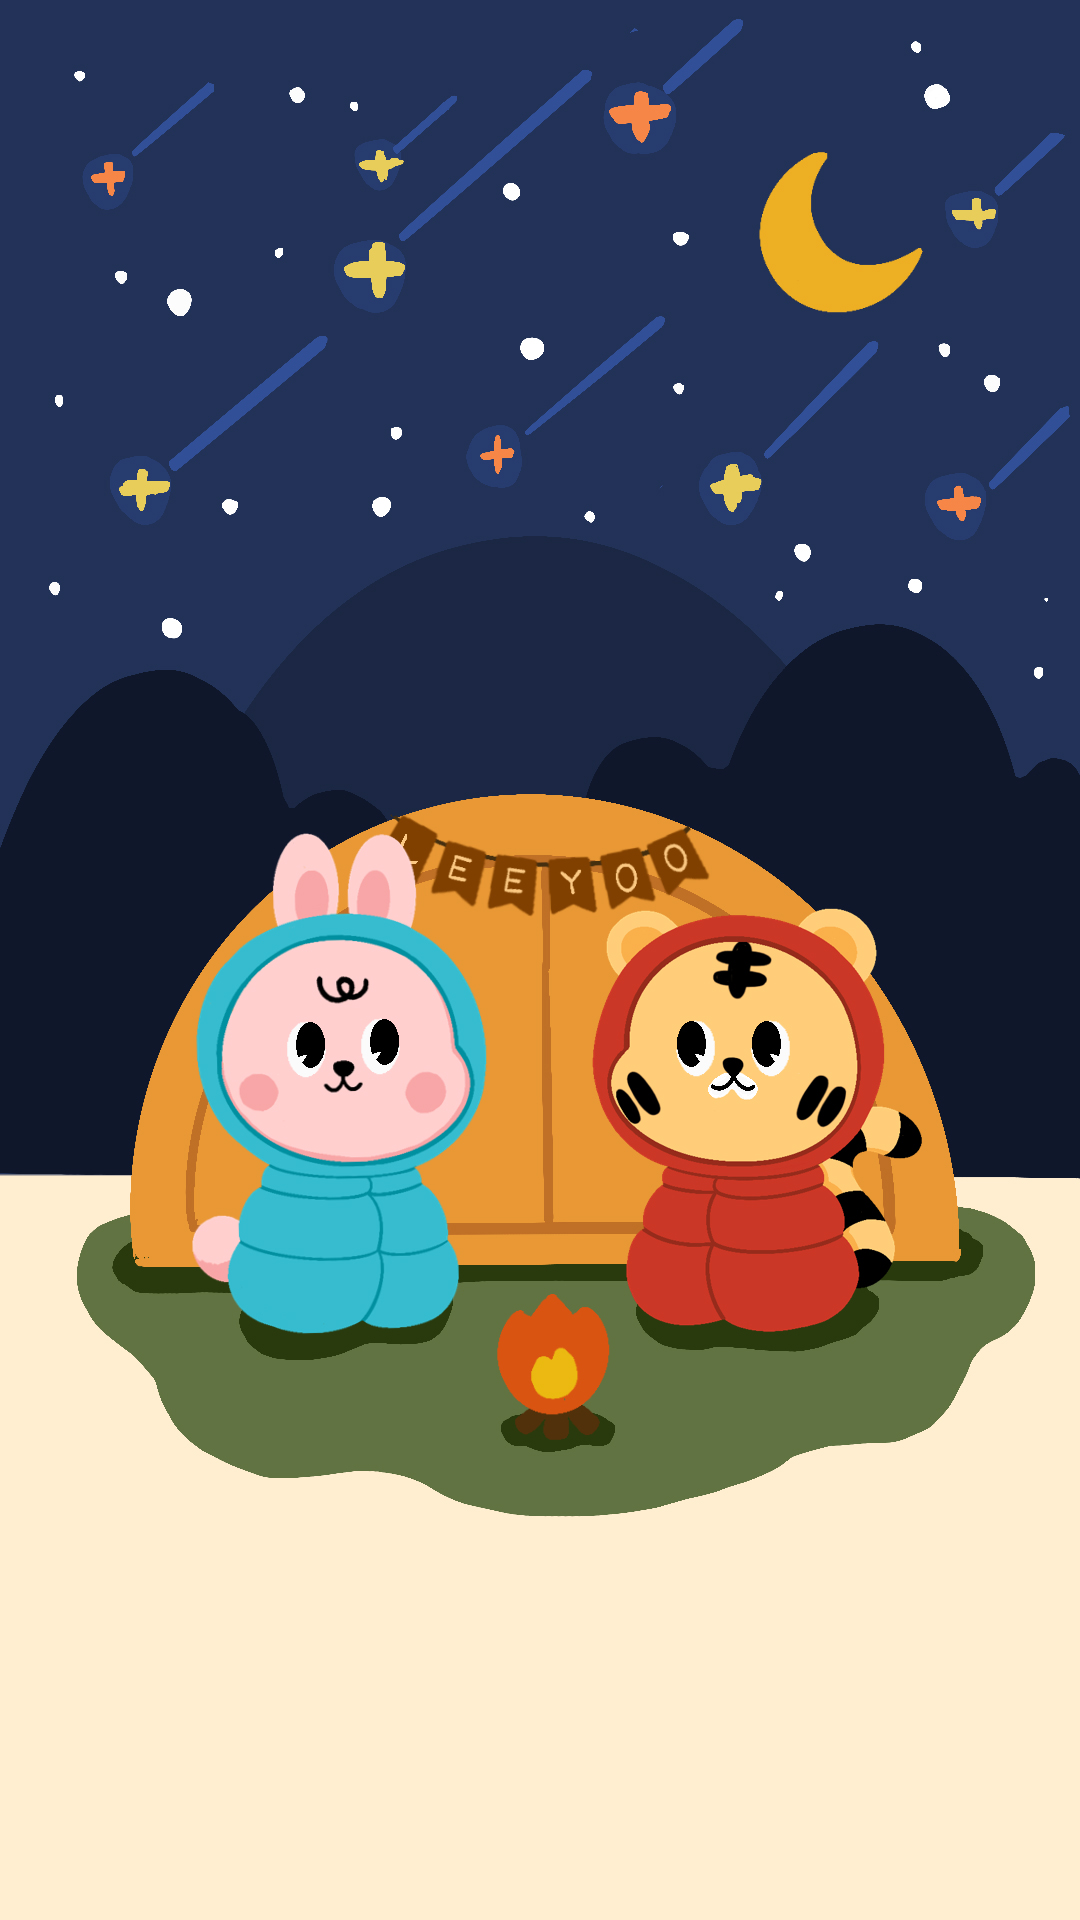
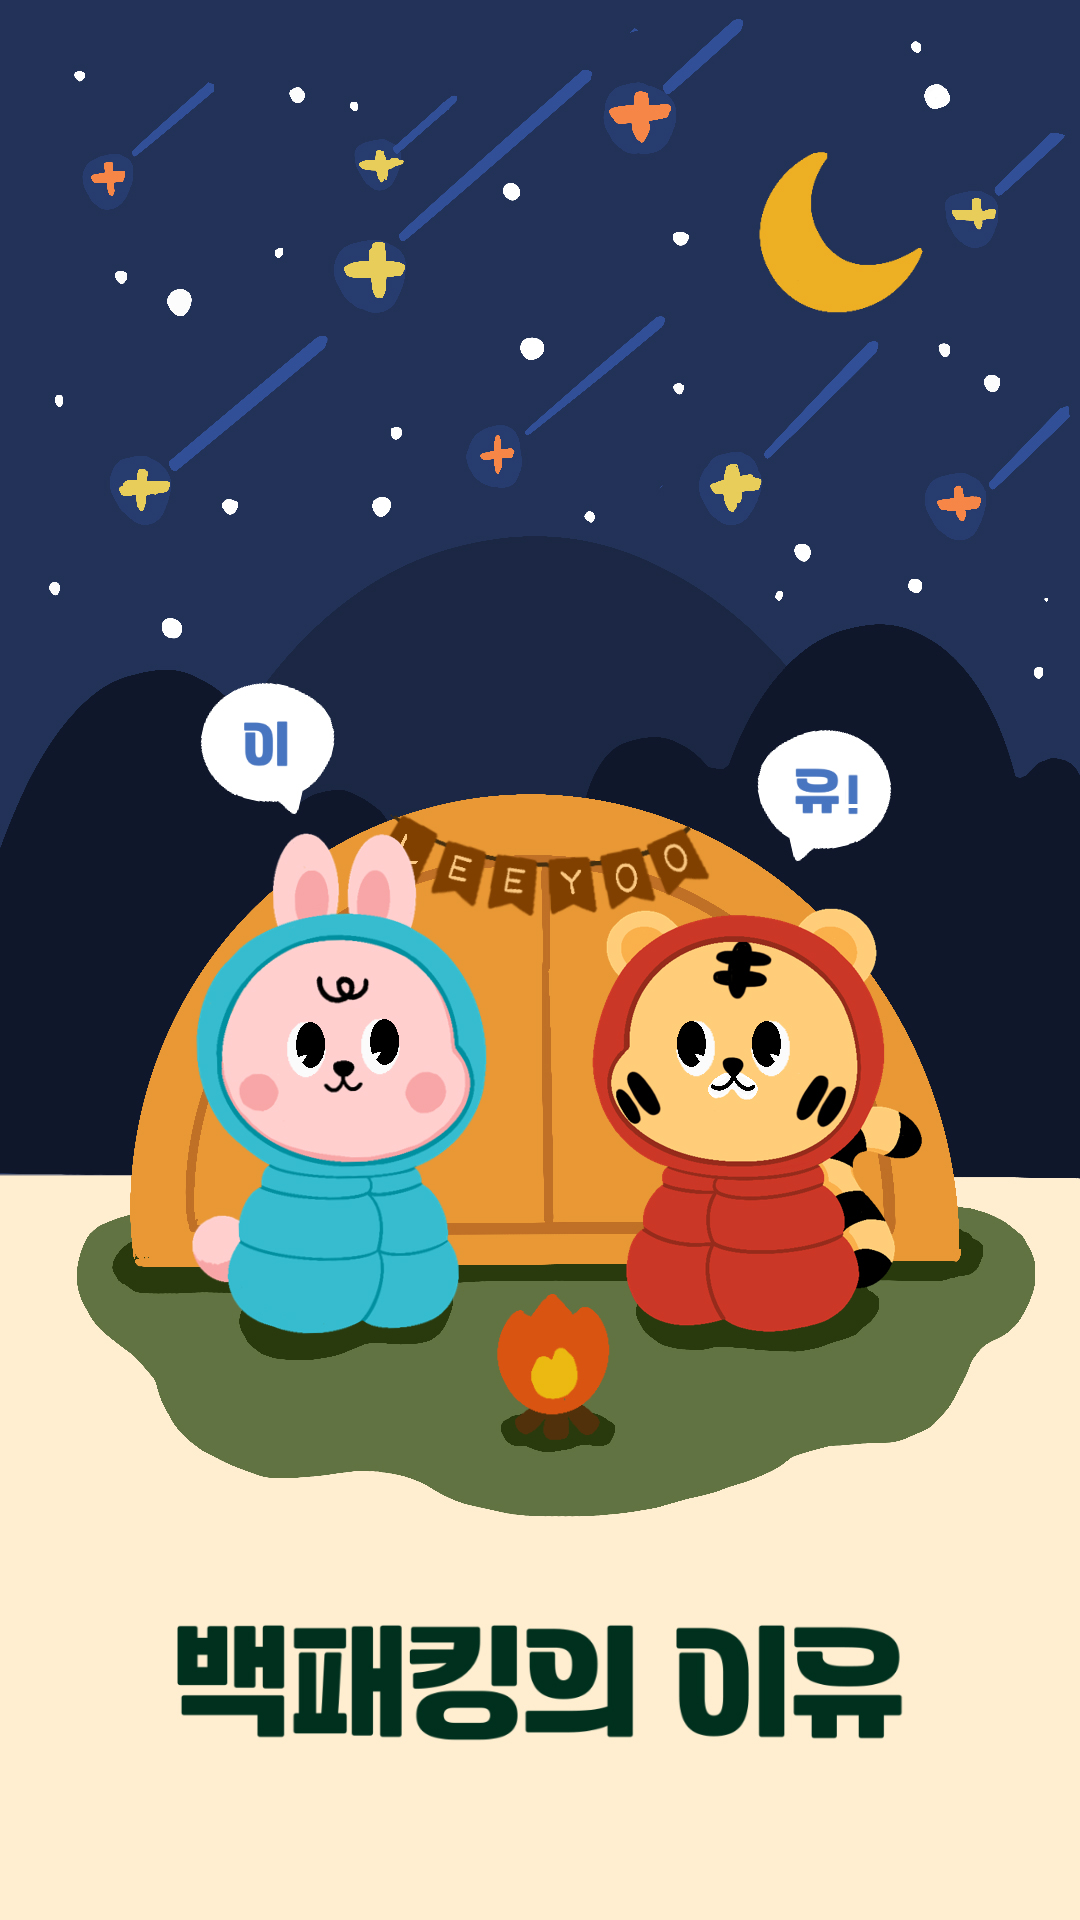
[FIX] 헤더 수정, 로그인 이미지 수정

Changed region(s): [[0.1528, 0.8438, 0.8556, 0.9062], [0.1833, 0.3438, 0.3056, 0.4375], [0.7028, 0.375, 0.825, 0.4688]]

diff --git a/src/pages/SignIn.tsx b/src/pages/SignIn.tsx
@@ -13,16 +13,14 @@ const SignIn = () => {
   };
 
   useEffect(() => {
-    console.log(isLogin);
     if (isLogin()) return navigate("/");
-  }, [isLogin]);
+  }, [isLogin()]);
 
   return (
     <Fragment>
-      <div className="flex flex-col items-center justify-end w-screen h-screen bg-center bg-cover bg-main-img">
-        <div onClick={signInBtn} className="mb-[50px]">
-          <p className="font-black text-center text-gray-900 text-30">백패킹의 이유</p>
-          <img className="mt-[30px]" width={327} src={kakaoLogin} alt="kakaoLogin" />
+      <div className="flex h-screen w-screen flex-col items-center justify-end bg-main-img bg-cover bg-center">
+        <div onClick={signInBtn} className="fixed bottom-180">
+          <img className="w-full max-w-200" src={kakaoLogin} alt="kakaoLogin" />
         </div>
       </div>
     </Fragment>

diff --git a/src/routers/Header.tsx b/src/routers/Header.tsx
@@ -15,8 +15,8 @@ const Header = () => {
   if (isCertification || isReason)
     return (
       <>
-        <div className="mx-auto w-full">
-          <nav className="fixed top-0 z-10 flex h-50 w-full max-w-375 items-center justify-center border-b-1 border-solid border-[#AAAAAA] bg-white px-15">
+        <div className="fixed top-0 z-10 mx-auto flex h-50 w-full items-center justify-center border-b-1 border-solid border-[#AAAAAA] bg-white">
+          <nav className=" mx-auto w-full max-w-375">
             <div className="flex w-full items-center">
               <IconButton color="black" size="25" backIcon _onClick={() => navigator("/")} />
               <p className="ml-15 text-18 font-black text-[#35393D]">{isCertification ? "인증하기" : "나의이유"}</p>

diff --git a/src/components/mypage/StampList.tsx b/src/components/mypage/StampList.tsx
@@ -18,7 +18,7 @@ interface IStampList {
 
 const StampList = (props: any) => {
   const navigate = useNavigate();
-  const defaultImg = "http://picturebook-illust.com/upload_board/new_Gallery/ThumbNail/s/thumb_20191022182318.jpg";
+  const defaultImg = "https://i.postimg.cc/T37KDFj7/Kakao-Talk-20221209-212015184.png";
   const stampList = props.stampList.data?.data?.stamps;
   const stampCount = props.stampList.data?.data?.isStampCount;
   const { latitude, longitude, error } = useCoords();
